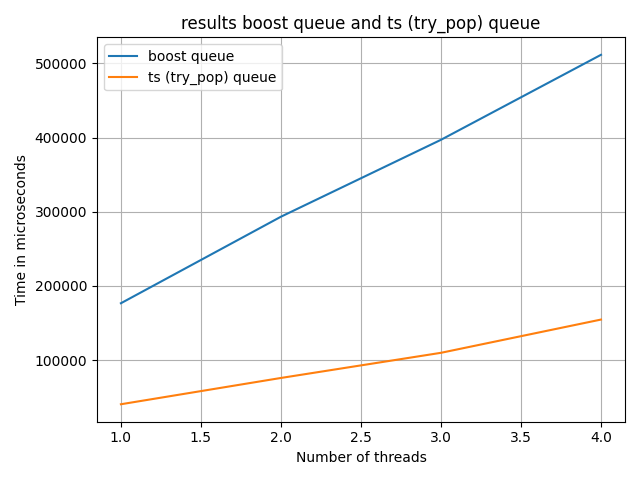
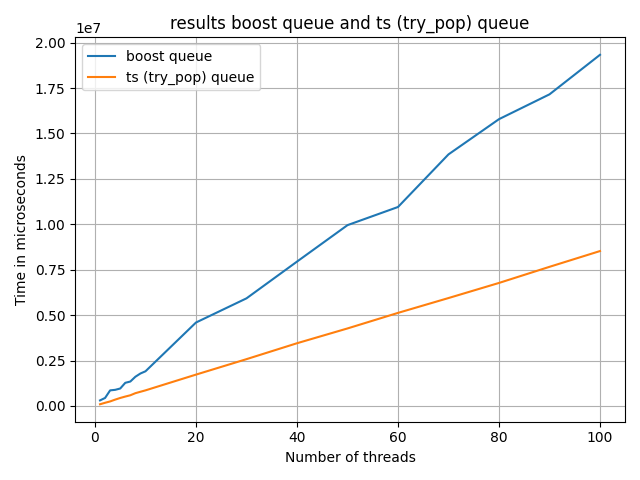
hw8 t4 v2.1

diff --git a/HW_8/3rd_task_SAFETY_PRIORITY_QUEUE.cpp b/HW_8/3rd_task_SAFETY_PRIORITY_QUEUE.cpp
@@ -21,8 +21,8 @@ public:
         m_priorityQueue = other.m_priorityQueue;
     }
 
-public:
-    Type waitTop() {
+public: // function Top may cause incorrect using
+    /*Type waitTop() {
         std::unique_lock lock(m_mutex);
 
         m_conditionVariable.wait(lock, [this] {return !m_priorityQueue.empty(); });
@@ -36,7 +36,7 @@ public:
 
         std::scoped_lock lock(m_mutex);
         return m_priorityQueue.top();
-    }
+    }*/
 
 public:
     bool empty() {
@@ -50,15 +50,15 @@ public:
     }
 
 public:
-    void push(const Type& value) {
+    /*void push(const Type& value) {
         std::scoped_lock lock(m_mutex);
         m_priorityQueue.push(value);
         m_conditionVariable.notify_one();
-    }
+    }*/
 
     void push(Type&& value) {
         std::scoped_lock lock(m_mutex);
-        m_priorityQueue.push(std::move(value));
+        m_priorityQueue.push(std::forward<Type>(value));
         m_conditionVariable.notify_one();
     }
 
@@ -133,7 +133,6 @@ int main() {
     ThreadsafePriorityQueue <int, std::vector<int>> tsq2(tsq);
 
     auto s = tsq.size();
-    auto n = tsq.tryTop();
 
     int val = 0;
     tsq2.tryPop(val);
@@ -142,7 +141,7 @@ int main() {
 
     tsq.swap(tsq2);
 
-    std::cout << std::boolalpha << b << ' ' << s << ' ' << n << ' ' << val << ' ' << tp << std::endl;
+    std::cout << std::boolalpha << b << ' ' << s << ' ' << ' ' << val << ' ' << tp << std::endl;
 
     return 0;
 }

diff --git a/HW_8/4th task _ COMPETITION/4th_task_COMPETITION.cpp b/HW_8/4th task _ COMPETITION/4th_task_COMPETITION.cpp
@@ -210,7 +210,7 @@ public:
             }
         timer.stop();
 
-        std::cout << "finished\n";
+        std::cout << numThreads << ' ' << "finished\n";
 
         return timer.getTime();
     }
@@ -225,7 +225,7 @@ public:
 
     template < typename... ContainerTypes >
     void makeResults(std::ostream& ostream, std::size_t numThreads, std::size_t numOperations) {
-        for (auto i = 1u; i <= numThreads; ++i){
+        for (auto i = 1u; i <= numThreads; i += (i < 10) ? 1 : 10){
             ostream << i << ' ';
             printResults<ContainerTypes...>(ostream, i, numOperations);
             ostream << std::endl;
@@ -239,8 +239,9 @@ private:
 };
 
 int main() {
-    const auto N = std::thread::hardware_concurrency() / 2;
-    const auto M = 1000000;
+//    const auto N = std::thread::hardware_concurrency() / 2;
+    const auto N = 100u;
+    const auto M = 1000000u;
 
     std::ofstream ofstream;
 
